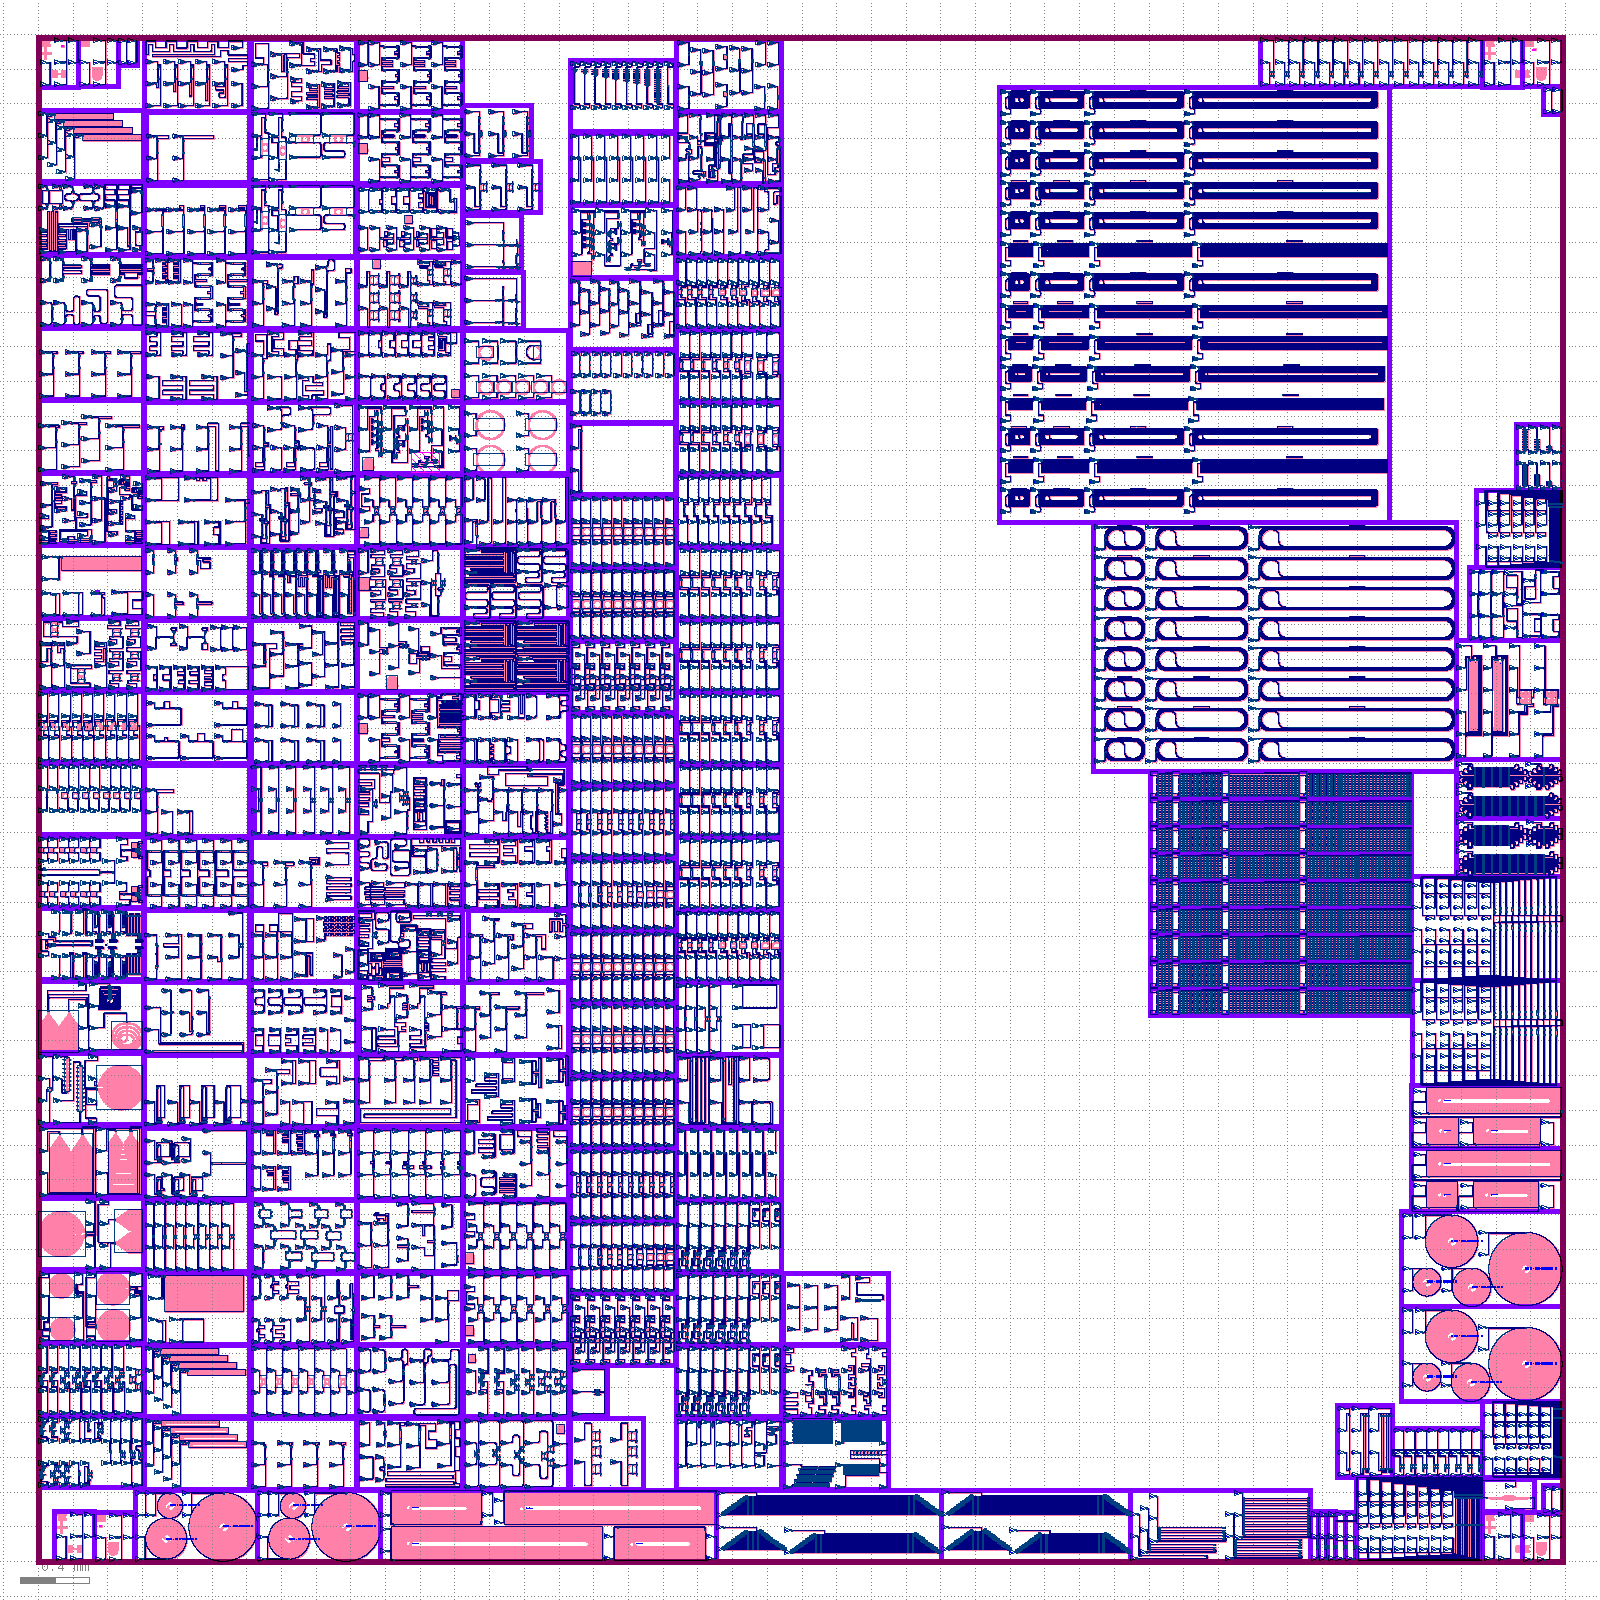
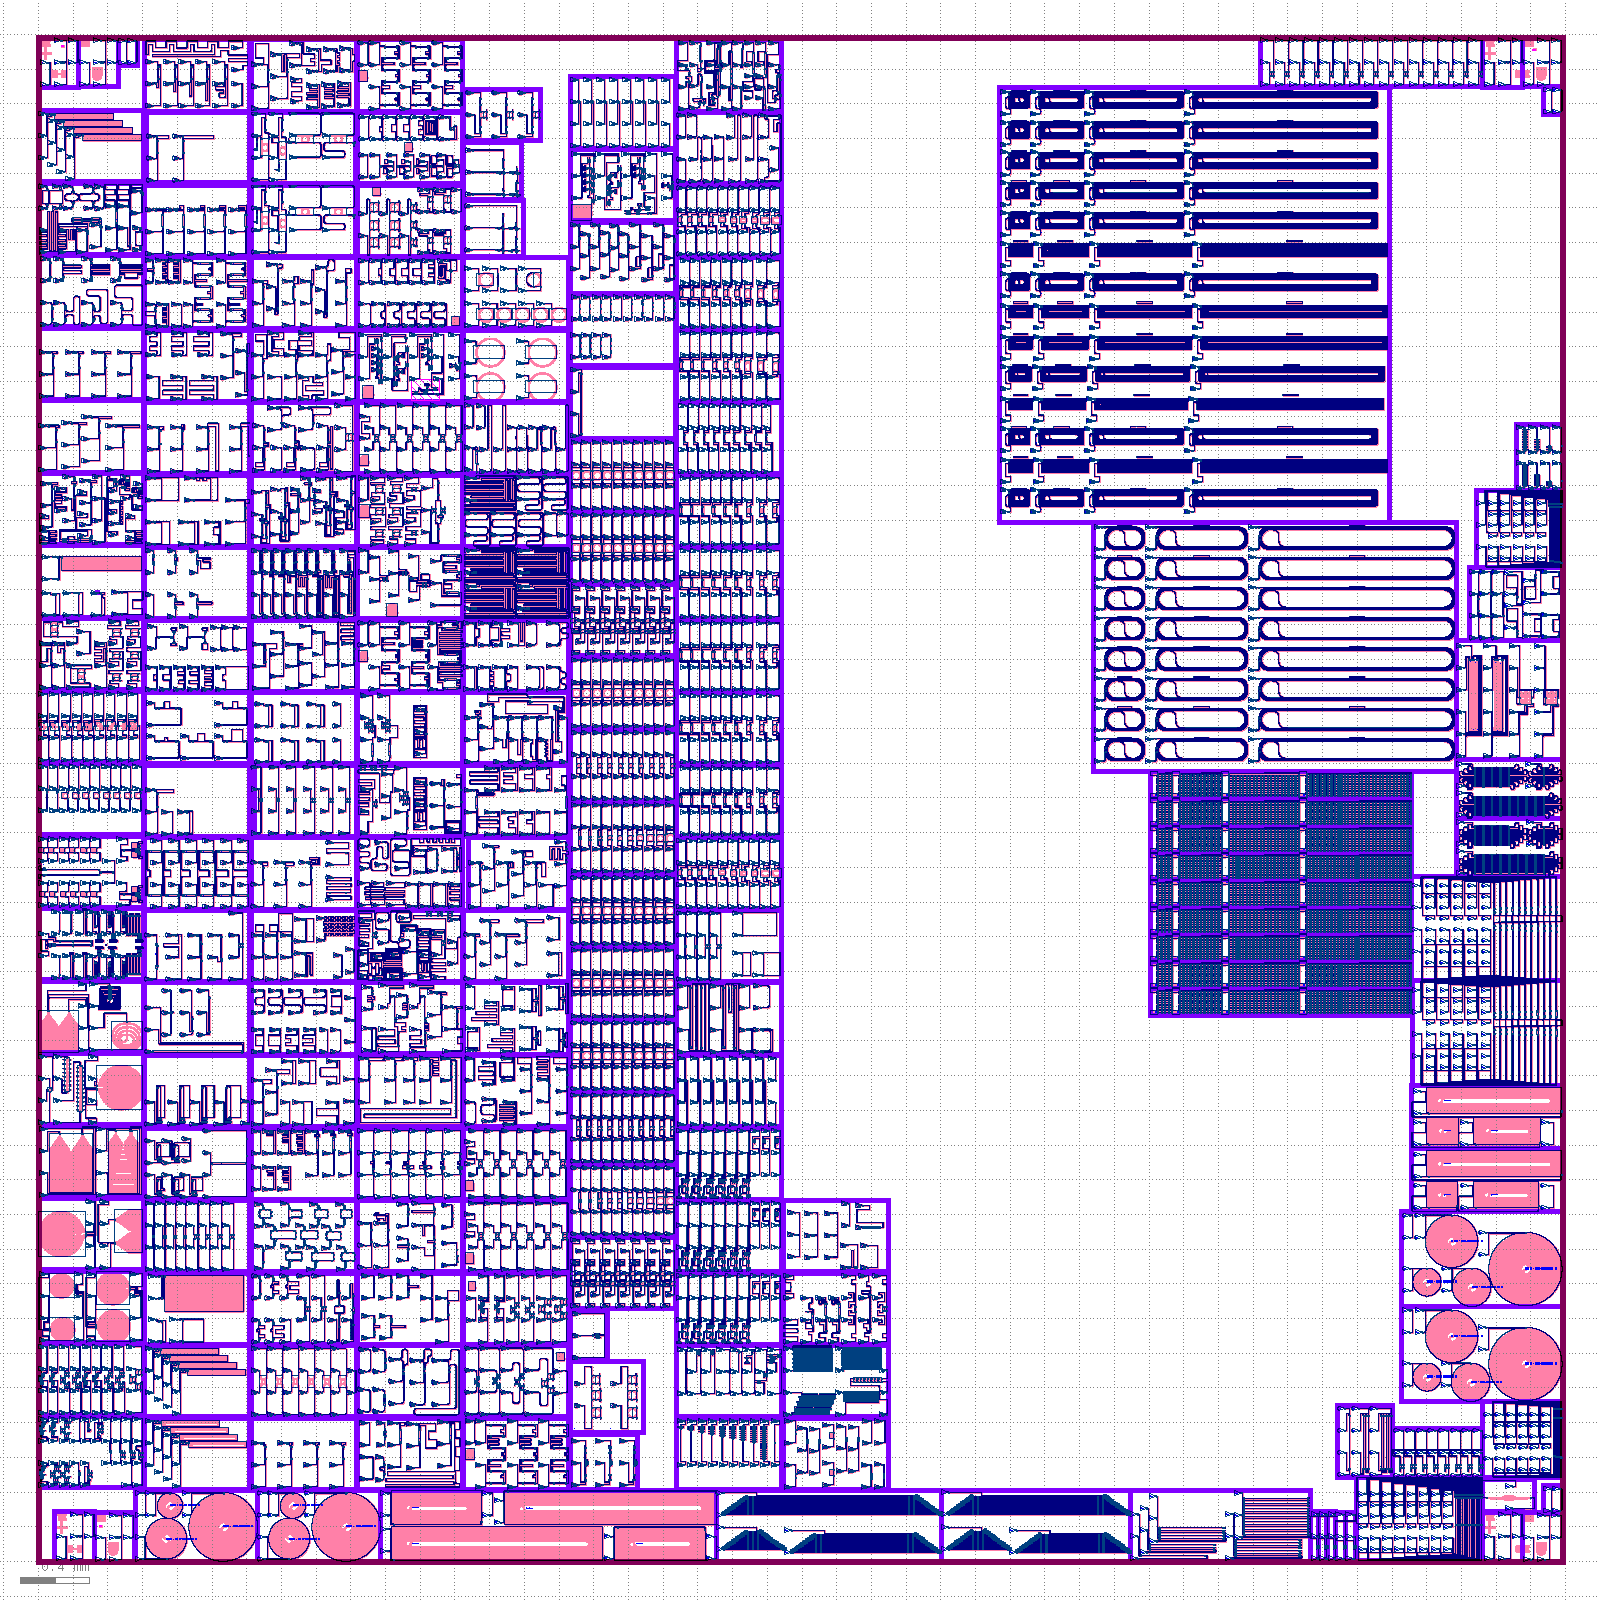
Aggregation layout: https://github.com/SiEPIC/openEBL-2026-05/actions/runs/28843565098/artifacts/8128709744

Changed region(s): [[0.2188, 0.0, 0.5625, 0.9375]]

diff --git a/README.md b/README.md
@@ -105,5 +105,5 @@ Scanning electron microscope images of some of the devices from this fabrication
 
 Click on the following link to download the EBeam.oas merged layout file:
 <!-- start-link -->
-https://github.com/SiEPIC/openEBL-2026-05/actions/runs/26043657722/artifacts/7062298817
+https://github.com/SiEPIC/openEBL-2026-05/actions/runs/28843565098/artifacts/8128709744
 <!-- end-link -->
